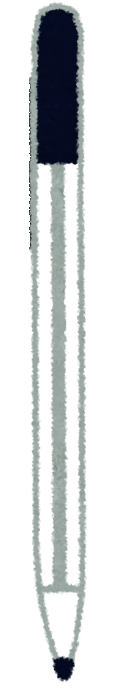
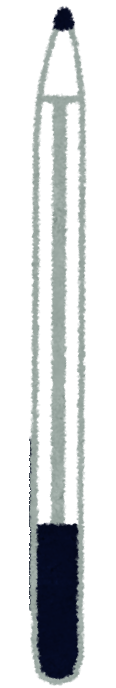
Add: Penbody and Cap move function

Changed region(s): [[0.2328, 0.0, 0.75, 1.0]]

diff --git a/src/components/PenFactory.tsx b/src/components/PenFactory.tsx
@@ -1,4 +1,4 @@
-import React from "react";
+import React, { useState } from "react";
 import Status from "./PenFactory/Status";
 import PenBody from "./PenFactory/PenBody";
 import PenCap from "./PenFactory/PenCap";
@@ -14,19 +14,53 @@ const styles = () => ({
 });
 
 const PenFactory: React.FC = () => {
-  const handlePush = () => {};
+  const [stage, setStage] = useState({ body: 0, cap: 0 });
+  const [flip, setFlip] = useState(false);
 
-  const handleCap = () => {};
+  const handleKeyDown = (e: any) => {
+    if (e.key === " ") handleLanePush();
+    else if (e.key === "ArrowDown" || e.key === "ArrowUp") {
+      handleCap();
+      console.log("test");
+    } else if (e.key === "ArrowLeft" || e.key === "ArrowRight") {
+      handleFlip();
+      console.log("testflip");
+    }
+  };
 
-  const handleRotate = () => {};
+  const handleLanePush = () => {
+    setStage({
+      body: stage.body === 4 ? 0 : stage.body + 1,
+      cap:
+        stage.cap === 3
+          ? (stage.cap = 0)
+          : stage.cap !== 0
+          ? stage.cap + 1
+          : stage.cap
+    });
+  };
+
+  const handleCap = () => {
+    setStage({ body: stage.body, cap: stage.cap === 0 ? 1 : 0 });
+  };
+
+  const handleFlip = () => {
+    setFlip(!flip);
+  };
 
   return (
     <section>
-      <div style={styles()}>
+      <div style={styles()} onKeyPress={handleKeyDown} tabIndex={0}>
         <Status />
-        <PenCap />
-        <PenBody stage={2} />
-        <ControlButtons />
+        <PenCap stage={stage.cap} />
+        <PenBody stage={stage.body} isPenFlipped={flip} />
+        <ControlButtons
+          buttons={{
+            LanePush: handleLanePush,
+            Cap: handleCap,
+            Flip: handleFlip
+          }}
+        />
         <Counter />
       </div>
       <Buttons />

diff --git a/src/components/PenFactory/PenBody.tsx b/src/components/PenFactory/PenBody.tsx
@@ -12,25 +12,29 @@ const styles = (transform: string) => ({
   transform: transform ? transform : "rotate(90deg)"
 });
 
-const PenBody: React.FC<{ stage: number }> = ({ stage }) => {
-  const trans = position(stage);
-  return (
-    <img src={penimg} style={styles(trans!.transform)} alt="penimage"></img>
-  );
+const PenBody: React.FC<{ stage: number; isPenFlipped: boolean }> = ({
+  stage,
+  isPenFlipped
+}) => {
+  const { transform } = position(stage, isPenFlipped);
+  return <img src={penimg} style={styles(transform)} alt="penimage"></img>;
 };
 
-function position(stage: number) {
+function position(stage: number, isPenFlipped: boolean): { transform: string } {
+  let flip = isPenFlipped ? -180 : 0;
   switch (stage) {
     case 0:
-      return { transform: "rotate(90deg)" };
+      return { transform: `rotate(${90 + flip}deg)` };
     case 1:
-      return { transform: "rotate(20deg) translate(-400px, 150px)" };
+      return { transform: `rotate(${20 + flip}deg) translate(-400px, 150px)` };
     case 2:
-      return { transform: "translateX(-805px)" };
+      return { transform: `translateX(-805px) rotate(${flip}deg)` };
     case 3:
-      return { transform: "translate(-1185px)" };
+      return { transform: `translate(-1185px) rotate(${flip}deg)` };
     case 4:
-      return { transform: "translate(-1500px)" };
+      return { transform: `translate(-1500px) rotate(${flip}deg)` };
+    default:
+      return { transform: `translateX(-805px) rotate(${flip}deg)` };
   }
 }
 

diff --git a/src/components/PenFactory/PenCap.tsx b/src/components/PenFactory/PenCap.tsx
@@ -1,16 +1,36 @@
 import React from "react";
 import capimg from "./img/cap.png";
 
-const styles = () => ({
+const styles = (transform: string) => ({
   position: "absolute" as "absolute",
   width: 40,
   height: 114,
+
+  zIndex: 10,
   top: 45,
-  left: 555
+  left: 555,
+  transition: "0.5s ease-in-out",
+  transform: transform ? transform : ""
 });
 
-const PenCap: React.FC = () => {
-  return <img src={capimg} style={styles()} alt="capimage"></img>;
+const PenCap: React.FC<{ stage: number }> = ({ stage }) => {
+  const trans = position(stage);
+  return (
+    <img src={capimg} style={styles(trans!.transform)} alt="capimage"></img>
+  );
 };
+
+function position(stage: number) {
+  switch (stage) {
+    case 0:
+      return { transform: "" };
+    case 1:
+      return { transform: "translateY(70px)" };
+    case 2:
+      return { transform: "translate(-375px, 70px)" };
+    case 3:
+      return { transform: "translate(-670px, 70px)" };
+  }
+}
 
 export default PenCap;

diff --git a/src/components/PenFactory/ControlButtons.tsx b/src/components/PenFactory/ControlButtons.tsx
@@ -13,16 +13,24 @@ const styles = () => ({
   }
 });
 
-const ControlButtons: React.FC = () => {
+type ControlButtonProps = {
+  buttons: {
+    LanePush: () => void;
+    Cap: () => void;
+    Flip: () => void;
+  };
+};
+
+const ControlButtons: React.FC<ControlButtonProps> = ({ buttons }) => {
   return (
     <section style={styles()}>
-      <Button variant="contained" color="primary">
+      <Button variant="contained" color="primary" onClick={buttons.LanePush}>
         ← <br /> SPACE
       </Button>
-      <Button variant="contained" color="primary">
+      <Button variant="contained" color="primary" onClick={buttons.Flip}>
         ←→ <br /> ←→
       </Button>
-      <Button variant="contained" color="primary">
+      <Button variant="contained" color="primary" onClick={buttons.Cap}>
         ↓ <br /> ↓
       </Button>
     </section>

diff --git a/src/components/PenFactory/Life.tsx b/src/components/PenFactory/Life.tsx
@@ -1,7 +1,7 @@
 import React from "react";
 
-const Life: React.FC = () => {
-  return <div>❤❤❤❤❤</div>;
+const Life: React.FC<{ lifes: number }> = ({ lifes }) => {
+  return <div>{"❤".repeat(lifes)}</div>;
 };
 
 export default Life;

diff --git a/src/components/PenFactory/Status.tsx b/src/components/PenFactory/Status.tsx
@@ -23,7 +23,7 @@ const Status: React.FC = () => {
         </Typography>
         <Typography variant="h4">ボーナス率: {chanceRate}％</Typography>
       </div>
-      <Life />
+      <Life lifes={3} />
     </section>
   );
 };

diff --git a/src/components/PenFactory/Buttons.tsx b/src/components/PenFactory/Buttons.tsx
@@ -6,9 +6,7 @@ const styles = () => ({
   margin: "auto",
   display: "flex",
   justifyContent: "space-around",
-  "& button": {
-    width: "20%"
-  }
+  paddingBottom: 20
 });
 
 const Buttons: React.FC = () => {
